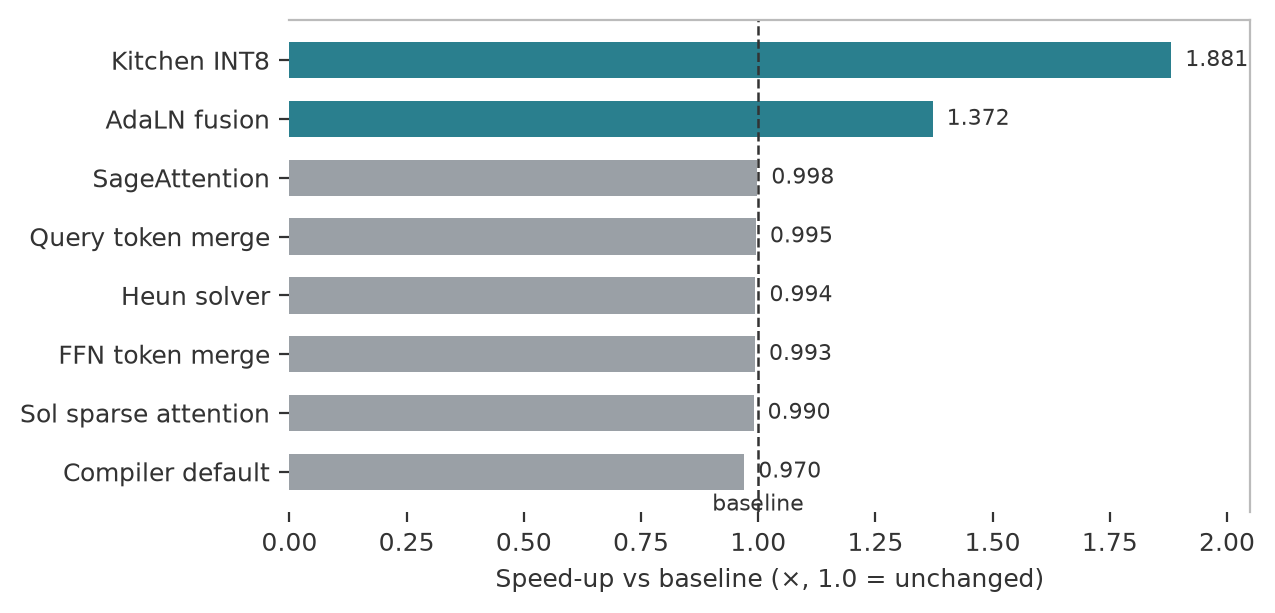
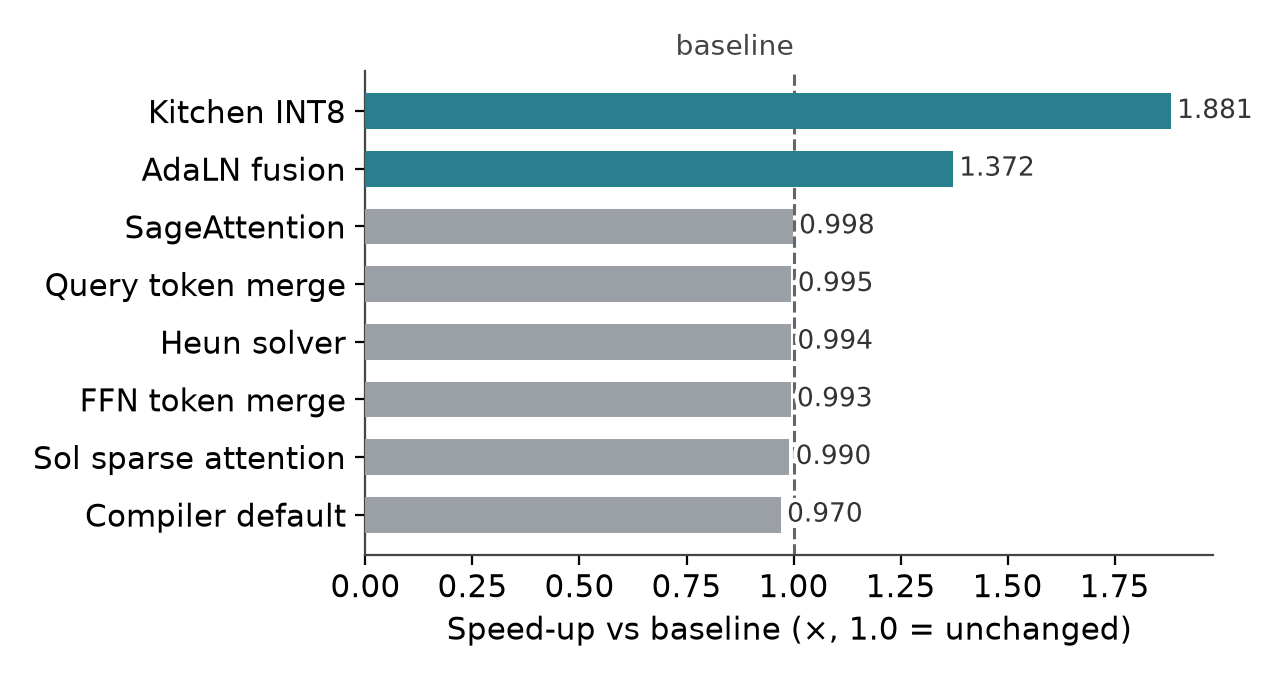
Blog MiniAcc: fix visual assets, Casual Research series, low-budget framing
- Charts regenerated after VLM audits: baseline annotations boxed above plots,
  y-label no longer clipped, per-bar numeric labels with legend moved clear,
  segment labels plus request totals outside bars
- Pipeline diagram rebuilt: single centerline, straight arrows, lane titles
  above chips, Sage in compute lane, x4 badge, chips footnote, larger fonts
- Montage rebuilt without stray burnt-in captions
- Demo clips now carry their prompt (A person is squat)
- Title and intro foreground the single-GPU, no-training-compute budget
- Series changed to Casual Research

Changed region(s): [[0.0, 0.031, 0.9788, 0.9608], [0.9482, 0.8679, 1.0, 0.8989]]

diff --git a/_site/blog/2026/09/17/miniacc/index.html b/_site/blog/2026/09/17/miniacc/index.html
@@ -3,7 +3,7 @@
   <head>
     <meta charset="utf-8">
 <meta name="viewport" content="width=device-width, initial-scale=1">
-<title>MiniAcc: Investigating How to Further Accelerate Large Video Diffusion Models at Inference Time · Tianyue Yang</title>
+<title>MiniAcc: Investigating How to Accelerate Large Video Diffusion Models on a Single GPU · Tianyue Yang</title>
 <meta name="description" content="Tianyue Yang — AI, physics, chemistry, and scientific machine learning.">
 <meta name="theme-color" content="#fbfaff">
 <meta name="color-scheme" content="light dark">
@@ -117,17 +117,17 @@
         <article class="post-shell prose">
   <header class="post-header">
     <div class="eyebrow">
-      <span>Research Promotion</span>
+      <span>Casual Research</span>
       <span class="eyebrow-rule" aria-hidden="true"></span>
       <time datetime="2026-09-17T19:00:00+01:00">17.09.2026</time>
     </div>
-    <h1>MiniAcc: Investigating How to Further Accelerate Large Video Diffusion Models at Inference Time</h1>
+    <h1>MiniAcc: Investigating How to Accelerate Large Video Diffusion Models on a Single GPU</h1>
     <div class="post-header-rail" aria-hidden="true"><span></span><span></span><span></span></div>
   </header>
 
   <div class="post-body">
     <!-- Generated from _tex/posts/miniacc.tex; edit the TeX source, not this file. -->
-<p>MiniMax-H3 is a large diffusion model that turns a text prompt into a five-second video with synchronised audio. Serving it well from a single workstation GPU is awkward, because the model is far bigger than the card’s memory. This post describes a small research programme around that problem. We measured where the time actually goes when you serve the model, tried a shelf of published acceleration ideas one by one, and then combined the ones that worked. The combination we now run finishes a request in 130 seconds where the baseline took 327 seconds on an RTX 4090, and we try to be honest about what that costs in output quality.</p>
+<p>MiniMax-H3 is a large diffusion model that turns a text prompt into a five-second video with synchronised audio. This post is about what you can do with very little: one consumer GPU, no training run, no cluster. We investigate how much faster such a model can be served under that constraint, and what the trade-offs look like when you get there. Everything below was measured on a single RTX 4090, with a single A100 used only to score videos. We measured where the time actually goes, tried a shelf of published acceleration ideas one by one, and then combined the ones that worked. The combination we now run finishes a request in 130 seconds where the baseline took 327 seconds, and we try to be honest about what that costs in output quality.</p>
 <p>Everything below is measured on one frozen workload: a 1344<span class="math inline">\(\times\)</span>768 video at 124 frames and 24 FPS with 32 kHz stereo audio, generated end to end from a prompt, with the same seed everywhere. Timings are the wall time from submitting the request to having the finished file on disk, which includes the continuous shuttling of model weights between main memory and the GPU. Quality is scored with VBench <span class="citation" data-cites="huang2024vbench">(<a href="#ref-huang2024vbench" role="doc-biblioref">Huang et al. 2024</a>)</span>, a suite of video-quality metrics, and we always compare like for like: same hardware, same prompts, same seed, paired clip by clip.</p>
 <h2 id="choosing-a-baseline-worth-accelerating">Choosing a baseline worth accelerating</h2>
 <p>The first job was picking the serving stack to accelerate. We screened five ways of running the model on the same sixteen prompts: ComfyUI with the Turbo 4-step and 8-step distilled checkpoints <span class="citation" data-cites="comfyui">(<a href="#ref-comfyui" role="doc-biblioref">comfyanonymous and ComfyOrg contributors 2025</a>)</span>, SGLang <span class="citation" data-cites="zheng2024sglang">(<a href="#ref-zheng2024sglang" role="doc-biblioref">Zheng et al. 2024</a>)</span> with the LightX2V 4-step adapter <span class="citation" data-cites="lightx2v">(<a href="#ref-lightx2v" role="doc-biblioref">ModelTC Team 2025</a>)</span>, SGLang with the Larry 8-step adapter, and a FastH3 variant with a different attention backend. Two candidates were much faster than everything else, and of those, SGLang with LightX2V was the one whose output we could not distinguish from the slow dense baseline on our metrics. That became the baseline for all later work.</p>
@@ -327,14 +327,16 @@
 <figcaption>The same deltas as a chart. Sage’s damage concentrates in overall consistency and imaging, and it is consistent across clips, not one outlier.</figcaption>
 </figure>
 <p>Sage’s cost is systematic. Overall consistency, which measures whether the video matches the prompt’s meaning, dropped on every eligible clip. Imaging quality, a sharpness-and-artifacts score, dropped on 14 of 16 clips. One plausible explanation is that 8-bit attention stacked on 8-bit weights nudges the distilled model off the trajectory it was trained for, but we have not proven that mechanism. Sol, by contrast, is quality-neutral and simply slower, so there is no reason to adopt it. Our default ships with Sage because the speed matters for our use, and the fidelity-first configuration (AdaLN and Kitchen without Sage) is one flag away for anyone who would rather keep baseline-level quality at 2.19<span class="math inline">\(\times\)</span>.</p>
-<p>Finally, here is what all of this looks like. The clips use the same prompt and seed on both pipelines.</p>
+<p>Finally, here is what all of this looks like. Both clips use the same prompt, <em>“A person is squat”</em> (VBench prompt 0195, human action), and the same seed.</p>
 <p><strong>Baseline serving:</strong></p>
 <figure>
 <img src="/assets/images/blog/miniacc/demo-baseline.gif" />
+<figcaption>Baseline serving. Prompt: “A person is squat”.</figcaption>
 </figure>
 <p><strong>Integrated pipeline:</strong></p>
 <figure>
 <img src="/assets/images/blog/miniacc/demo-pipeline.gif" />
+<figcaption>The integrated pipeline. Same prompt and seed.</figcaption>
 </figure>
 <h2 id="limitations-and-what-we-would-do-next">Limitations and what we would do next</h2>
 <p>There are several honest caveats. Speed numbers come from single requests on one GPU, so treat them as indicative rather than universal. The quality study is solid on its own scale, but 16 clips and 4 overall-consistency clips are still small samples, and the Sage cost would benefit from a bigger sweep before anyone ships this. We assessed video quality only. The audio track is validated for presence and format but never scored, because we know no good paired metric for generated audio. We used the original VBench rather than VBench-2 for a boring but important reason: we could pin and hash-verify every file of the original benchmark’s scorer, which kept the whole evaluation reproducible. VBench-2 scores would not be comparable to ours anyway.</p>

diff --git a/_posts/2026-09-17-miniacc.html b/_posts/2026-09-17-miniacc.html
@@ -1,14 +1,14 @@
 ---
 layout: "post"
-title: "MiniAcc: Investigating How to Further Accelerate Large Video Diffusion Models at Inference Time"
+title: "MiniAcc: Investigating How to Accelerate Large Video Diffusion Models on a Single GPU"
 date: "2026-09-17 18:00:00 +0000"
-series: "Research Promotion"
-series_icon: "✶"
+series: "Casual Research"
+series_icon: "✎"
 categories: ["blog"]
 generated_from: "_tex/posts/miniacc.tex"
 ---
 <!-- Generated from _tex/posts/miniacc.tex; edit the TeX source, not this file. -->
-<p>MiniMax-H3 is a large diffusion model that turns a text prompt into a five-second video with synchronised audio. Serving it well from a single workstation GPU is awkward, because the model is far bigger than the card’s memory. This post describes a small research programme around that problem. We measured where the time actually goes when you serve the model, tried a shelf of published acceleration ideas one by one, and then combined the ones that worked. The combination we now run finishes a request in 130 seconds where the baseline took 327 seconds on an RTX 4090, and we try to be honest about what that costs in output quality.</p>
+<p>MiniMax-H3 is a large diffusion model that turns a text prompt into a five-second video with synchronised audio. This post is about what you can do with very little: one consumer GPU, no training run, no cluster. We investigate how much faster such a model can be served under that constraint, and what the trade-offs look like when you get there. Everything below was measured on a single RTX 4090, with a single A100 used only to score videos. We measured where the time actually goes, tried a shelf of published acceleration ideas one by one, and then combined the ones that worked. The combination we now run finishes a request in 130 seconds where the baseline took 327 seconds, and we try to be honest about what that costs in output quality.</p>
 <p>Everything below is measured on one frozen workload: a 1344<span class="math inline">\(\times\)</span>768 video at 124 frames and 24 FPS with 32 kHz stereo audio, generated end to end from a prompt, with the same seed everywhere. Timings are the wall time from submitting the request to having the finished file on disk, which includes the continuous shuttling of model weights between main memory and the GPU. Quality is scored with VBench <span class="citation" data-cites="huang2024vbench">(<a href="#ref-huang2024vbench" role="doc-biblioref">Huang et al. 2024</a>)</span>, a suite of video-quality metrics, and we always compare like for like: same hardware, same prompts, same seed, paired clip by clip.</p>
 <h2 id="choosing-a-baseline-worth-accelerating">Choosing a baseline worth accelerating</h2>
 <p>The first job was picking the serving stack to accelerate. We screened five ways of running the model on the same sixteen prompts: ComfyUI with the Turbo 4-step and 8-step distilled checkpoints <span class="citation" data-cites="comfyui">(<a href="#ref-comfyui" role="doc-biblioref">comfyanonymous and ComfyOrg contributors 2025</a>)</span>, SGLang <span class="citation" data-cites="zheng2024sglang">(<a href="#ref-zheng2024sglang" role="doc-biblioref">Zheng et al. 2024</a>)</span> with the LightX2V 4-step adapter <span class="citation" data-cites="lightx2v">(<a href="#ref-lightx2v" role="doc-biblioref">ModelTC Team 2025</a>)</span>, SGLang with the Larry 8-step adapter, and a FastH3 variant with a different attention backend. Two candidates were much faster than everything else, and of those, SGLang with LightX2V was the one whose output we could not distinguish from the slow dense baseline on our metrics. That became the baseline for all later work.</p>
@@ -208,14 +208,16 @@ generated_from: "_tex/posts/miniacc.tex"
 <figcaption>The same deltas as a chart. Sage’s damage concentrates in overall consistency and imaging, and it is consistent across clips, not one outlier.</figcaption>
 </figure>
 <p>Sage’s cost is systematic. Overall consistency, which measures whether the video matches the prompt’s meaning, dropped on every eligible clip. Imaging quality, a sharpness-and-artifacts score, dropped on 14 of 16 clips. One plausible explanation is that 8-bit attention stacked on 8-bit weights nudges the distilled model off the trajectory it was trained for, but we have not proven that mechanism. Sol, by contrast, is quality-neutral and simply slower, so there is no reason to adopt it. Our default ships with Sage because the speed matters for our use, and the fidelity-first configuration (AdaLN and Kitchen without Sage) is one flag away for anyone who would rather keep baseline-level quality at 2.19<span class="math inline">\(\times\)</span>.</p>
-<p>Finally, here is what all of this looks like. The clips use the same prompt and seed on both pipelines.</p>
+<p>Finally, here is what all of this looks like. Both clips use the same prompt, <em>“A person is squat”</em> (VBench prompt 0195, human action), and the same seed.</p>
 <p><strong>Baseline serving:</strong></p>
 <figure>
 <img src="/assets/images/blog/miniacc/demo-baseline.gif" />
+<figcaption>Baseline serving. Prompt: “A person is squat”.</figcaption>
 </figure>
 <p><strong>Integrated pipeline:</strong></p>
 <figure>
 <img src="/assets/images/blog/miniacc/demo-pipeline.gif" />
+<figcaption>The integrated pipeline. Same prompt and seed.</figcaption>
 </figure>
 <h2 id="limitations-and-what-we-would-do-next">Limitations and what we would do next</h2>
 <p>There are several honest caveats. Speed numbers come from single requests on one GPU, so treat them as indicative rather than universal. The quality study is solid on its own scale, but 16 clips and 4 overall-consistency clips are still small samples, and the Sage cost would benefit from a bigger sweep before anyone ships this. We assessed video quality only. The audio track is validated for presence and format but never scored, because we know no good paired metric for generated audio. We used the original VBench rather than VBench-2 for a boring but important reason: we could pin and hash-verify every file of the original benchmark’s scorer, which kept the whole evaluation reproducible. VBench-2 scores would not be comparable to ours anyway.</p>

diff --git a/_site/blog/index.html b/_site/blog/index.html
@@ -119,11 +119,15 @@
           <li><a class="collection-filter" href="#all-posts" data-filter="all-posts"><span>All posts</span><b>3</b></a></li>
           
             
-              <li><a class="collection-filter" href="#series-research-promotion" data-filter="series-research-promotion"><span>Research Promotion</span><b>2</b></a></li>
+              <li><a class="collection-filter" href="#series-casual-research" data-filter="series-casual-research"><span>Casual Research</span><b>1</b></a></li>
             
           
             
               <li><a class="collection-filter" href="#series-learning-theory-training-dynamics" data-filter="series-learning-theory-training-dynamics"><span>Learning Theory: Training Dynamics</span><b>1</b></a></li>
+            
+          
+            
+              <li><a class="collection-filter" href="#series-research-promotion" data-filter="series-research-promotion"><span>Research Promotion</span><b>1</b></a></li>
             
           
           
@@ -135,37 +139,22 @@
       
         
           
-            <section class="series-block" id="series-research-promotion" data-group="series-research-promotion">
+            <section class="series-block" id="series-casual-research" data-group="series-casual-research">
               <header class="series-heading">
-                <span class="series-mark" aria-hidden="true">✶</span>
-                <div><h2>Research Promotion</h2></div>
-                <small>2 entries</small>
+                <span class="series-mark" aria-hidden="true">✎</span>
+                <div><h2>Casual Research</h2></div>
+                <small>1 entries</small>
               </header>
               <div class="post-list">
                 
                   <article class="post-record polygon-panel">
                     <div class="post-record-meta"><time>17.09.2026</time></div>
-                    <h3><a href="/blog/2026/09/17/miniacc/">MiniAcc: Investigating How to Further Accelerate Large Video Diffusion Models at Inference Time</a></h3>
+                    <h3><a href="/blog/2026/09/17/miniacc/">MiniAcc: Investigating How to Accelerate Large Video Diffusion Models on a Single GPU</a></h3>
                     <p>
-MiniMax-H3 is a large diffusion model that turns a text prompt into a five-second video with synchronised audio. Serving it well from a single workstation GPU is awkward, becau...</p>
+MiniMax-H3 is a large diffusion model that turns a text prompt into a five-second video with synchronised audio. This post is about what you can do with very little: one consum...</p>
                     <div class="record-links">
                       <a href="/blog/2026/09/17/miniacc/">Read note <span aria-hidden="true">↗</span></a>
                       
-                    </div>
-                  </article>
-                
-                  <article class="post-record polygon-panel">
-                    <div class="post-record-meta"><time>08.03.2026</time></div>
-                    <h3><a href="/blog/2026/03/08/k_flow_the_physical_-origin/">K-Flow - The Physical Origin</a></h3>
-                    <p>
-
-This blog is an invited contribution by Dr. Shengchao Liu; see the Wave Intelligence Lab.
-
-Flow Matching: A Physicist’s Perspective
-One of the earliest and most influential sc...</p>
-                    <div class="record-links">
-                      <a href="/blog/2026/03/08/k_flow_the_physical_-origin/">Read note <span aria-hidden="true">↗</span></a>
-                      <a href="/zh/k_flow/">中文</a>
                     </div>
                   </article>
                 
@@ -191,6 +180,34 @@ This introduction gives a concise outline of the theoretical machinery behind Ne
                     <div class="record-links">
                       <a href="/blog/2026/05/27/ntk/">Read note <span aria-hidden="true">↗</span></a>
                       
+                    </div>
+                  </article>
+                
+              </div>
+            </section>
+          
+        
+          
+            <section class="series-block" id="series-research-promotion" data-group="series-research-promotion">
+              <header class="series-heading">
+                <span class="series-mark" aria-hidden="true">✶</span>
+                <div><h2>Research Promotion</h2></div>
+                <small>1 entries</small>
+              </header>
+              <div class="post-list">
+                
+                  <article class="post-record polygon-panel">
+                    <div class="post-record-meta"><time>08.03.2026</time></div>
+                    <h3><a href="/blog/2026/03/08/k_flow_the_physical_-origin/">K-Flow - The Physical Origin</a></h3>
+                    <p>
+
+This blog is an invited contribution by Dr. Shengchao Liu; see the Wave Intelligence Lab.
+
+Flow Matching: A Physicist’s Perspective
+One of the earliest and most influential sc...</p>
+                    <div class="record-links">
+                      <a href="/blog/2026/03/08/k_flow_the_physical_-origin/">Read note <span aria-hidden="true">↗</span></a>
+                      <a href="/zh/k_flow/">中文</a>
                     </div>
                   </article>
                 

diff --git a/_tex/posts/miniacc.tex b/_tex/posts/miniacc.tex
@@ -1,4 +1,4 @@
-MiniMax-H3 is a large diffusion model that turns a text prompt into a five-second video with synchronised audio. Serving it well from a single workstation GPU is awkward, because the model is far bigger than the card's memory. This post describes a small research programme around that problem. We measured where the time actually goes when you serve the model, tried a shelf of published acceleration ideas one by one, and then combined the ones that worked. The combination we now run finishes a request in 130 seconds where the baseline took 327 seconds on an RTX 4090, and we try to be honest about what that costs in output quality.
+MiniMax-H3 is a large diffusion model that turns a text prompt into a five-second video with synchronised audio. This post is about what you can do with very little: one consumer GPU, no training run, no cluster. We investigate how much faster such a model can be served under that constraint, and what the trade-offs look like when you get there. Everything below was measured on a single RTX 4090, with a single A100 used only to score videos. We measured where the time actually goes, tried a shelf of published acceleration ideas one by one, and then combined the ones that worked. The combination we now run finishes a request in 130 seconds where the baseline took 327 seconds, and we try to be honest about what that costs in output quality.
 
 Everything below is measured on one frozen workload: a 1344$\times$768 video at 124 frames and 24 FPS with 32 kHz stereo audio, generated end to end from a prompt, with the same seed everywhere. Timings are the wall time from submitting the request to having the finished file on disk, which includes the continuous shuttling of model weights between main memory and the GPU. Quality is scored with VBench \citep{huang2024vbench}, a suite of video-quality metrics, and we always compare like for like: same hardware, same prompts, same seed, paired clip by clip.
 
@@ -123,13 +123,14 @@ Overall consistency & $-$29.82 & $+$0.20\\
 
 Sage's cost is systematic. Overall consistency, which measures whether the video matches the prompt's meaning, dropped on every eligible clip. Imaging quality, a sharpness-and-artifacts score, dropped on 14 of 16 clips. One plausible explanation is that 8-bit attention stacked on 8-bit weights nudges the distilled model off the trajectory it was trained for, but we have not proven that mechanism. Sol, by contrast, is quality-neutral and simply slower, so there is no reason to adopt it. Our default ships with Sage because the speed matters for our use, and the fidelity-first configuration (AdaLN and Kitchen without Sage) is one flag away for anyone who would rather keep baseline-level quality at 2.19$\times$.
 
-Finally, here is what all of this looks like. The clips use the same prompt and seed on both pipelines.
+Finally, here is what all of this looks like. Both clips use the same prompt, \emph{``A person is squat''} (VBench prompt 0195, human action), and the same seed.
 
 \textbf{Baseline serving:}
 
 \begin{figure}[ht]
 \centering
 \includegraphics[width=0.75\linewidth]{assets/images/blog/miniacc/demo-baseline.gif}
+\caption{Baseline serving. Prompt: ``A person is squat''.}
 \end{figure}
 
 \textbf{Integrated pipeline:}
@@ -137,6 +138,7 @@ Finally, here is what all of this looks like. The clips use the same prompt and 
 \begin{figure}[ht]
 \centering
 \includegraphics[width=0.75\linewidth]{assets/images/blog/miniacc/demo-pipeline.gif}
+\caption{The integrated pipeline. Same prompt and seed.}
 \end{figure}
 
 \section{Limitations and what we would do next}
